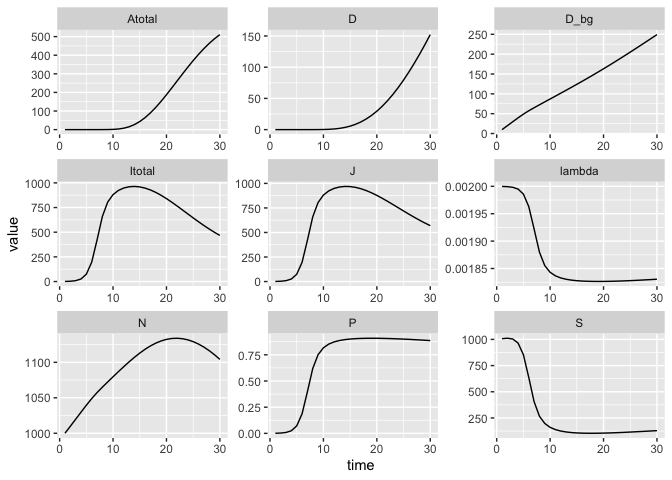
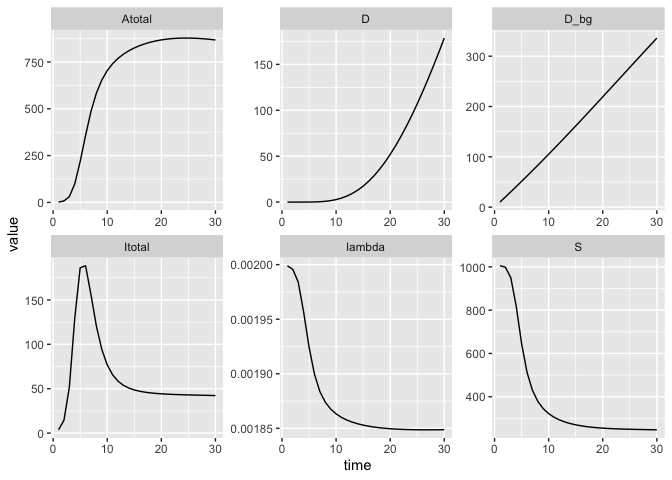
hiv states and parameters

diff --git a/inst/starter_models/hiv/README.md b/inst/starter_models/hiv/README.md
@@ -2,11 +2,39 @@ HIV
 ================
 Steve Walker
 
+- [States](#states)
+- [Parameters](#parameters)
 - [Dynamics](#dynamics)
 - [Example](#example)
+- [Model Specification](#model-specification)
 - [References](#references)
 
 HIV model by ([Granich et al. 2009](#ref-granich2009universal)).
+
+# States
+
+| Variable | Description                                                                                                        |
+|----------|--------------------------------------------------------------------------------------------------------------------|
+| S        | Number of susceptible individuals.                                                                                 |
+| I1 - I4  | Numbers of infectious individuals who are not treated. The number gives the state of disease progression from 1-4. |
+| A1 - A4  | Numbers of infectious individuals who are treated. The number gives the state of disease progression from 1-4.     |
+| D        | Number of individuals who have died from the disease.                                                              |
+| D_bg     | Number of individuals who have died from other causes.                                                             |
+
+# Parameters
+
+| Variable    | Description                                                                                                     |
+|-------------|-----------------------------------------------------------------------------------------------------------------|
+| $\alpha$    | Constant in non-linear transmission rate.                                                                       |
+| $\lambda_0$ | Constant in non-linear transmission rate.                                                                       |
+| $n$         | Constant in non-linear transmission rate.                                                                       |
+| $\epsilon$  | Constant, in non-linear transmission rate, measuring the relative decrease in transmission caused by treatment. |
+| $\beta$     | Per-capita birth rate.                                                                                          |
+| $\mu$       | Per-capita (background) death rate.                                                                             |
+| $\rho$      | Per-capita rate of disease progression for non-treated individuals.                                             |
+| $\sigma$    | Per-capita rate of disease progression for treated individuals.                                                 |
+| $\tau$      | Per-capita rate at which individuals become protected.                                                          |
+| $\phi$      | Per-capita rate at which individuals become unprotected.                                                        |
 
 # Dynamics
 
@@ -16,16 +44,15 @@ HIV model by ([Granich et al. 2009](#ref-granich2009universal)).
 
 ``` r
 spec = mp_tmb_library(
-    "starter_models", "HIV"
+    "starter_models", "hiv"
   , package = "macpan2"
 )
 outputs = c(
-    "D_bg", "D"
-  , "Itotal", "Atotal", "J"
-  , "lambda", "N", "P", "S"
+    "D_bg", "D", "S"
+  , "Itotal", "Atotal", "lambda"
 )
 sim = (spec
-  |> mp_hazard()
+  |> mp_rk4()
   |> mp_simulator(time_steps = 30L, outputs)
 )
 (sim
@@ -37,6 +64,14 @@ sim = (spec
 ```
 
 ![](./figures/unnamed-chunk-2-1.png)<!-- -->
+
+# Model Specification
+
+This model has been specified in the `hiv` directory
+[here](https://github.com/canmod/macpan2/blob/main/inst/starter_models/hiv/tmb.R)
+and is accessible from the `macpan2` model library (see [Example
+Models](https://canmod.github.io/macpan2/articles/example_models.html)
+for details).
 
 # References
 

diff --git a/inst/starter_models/ww/README.md b/inst/starter_models/ww/README.md
@@ -52,7 +52,7 @@ The size of the total population is, $N = S + E + I_a + I_p + I_m + I_s + H +  I
 | $\psi_1$       | 1/time spent in ICU before returning to acute care                                  |
 | $\psi_2$       | 1/time spent in ICU before dying                                                    |
 | $\psi_3$       | 1/time in post-ICU acute care before hospital discharge                             |
-| $\nu$          | viral shedding rate to wastewater *            |
+| $\nu$          | viral shedding rate to wastewater *                                                 |
 | $\xi$          | rate at which virus is denaturing/removed from wastewater *                         |
 
 \* These parameters were not detailed in [Papst](#references) (TBD), but they were included in model definition files. 
